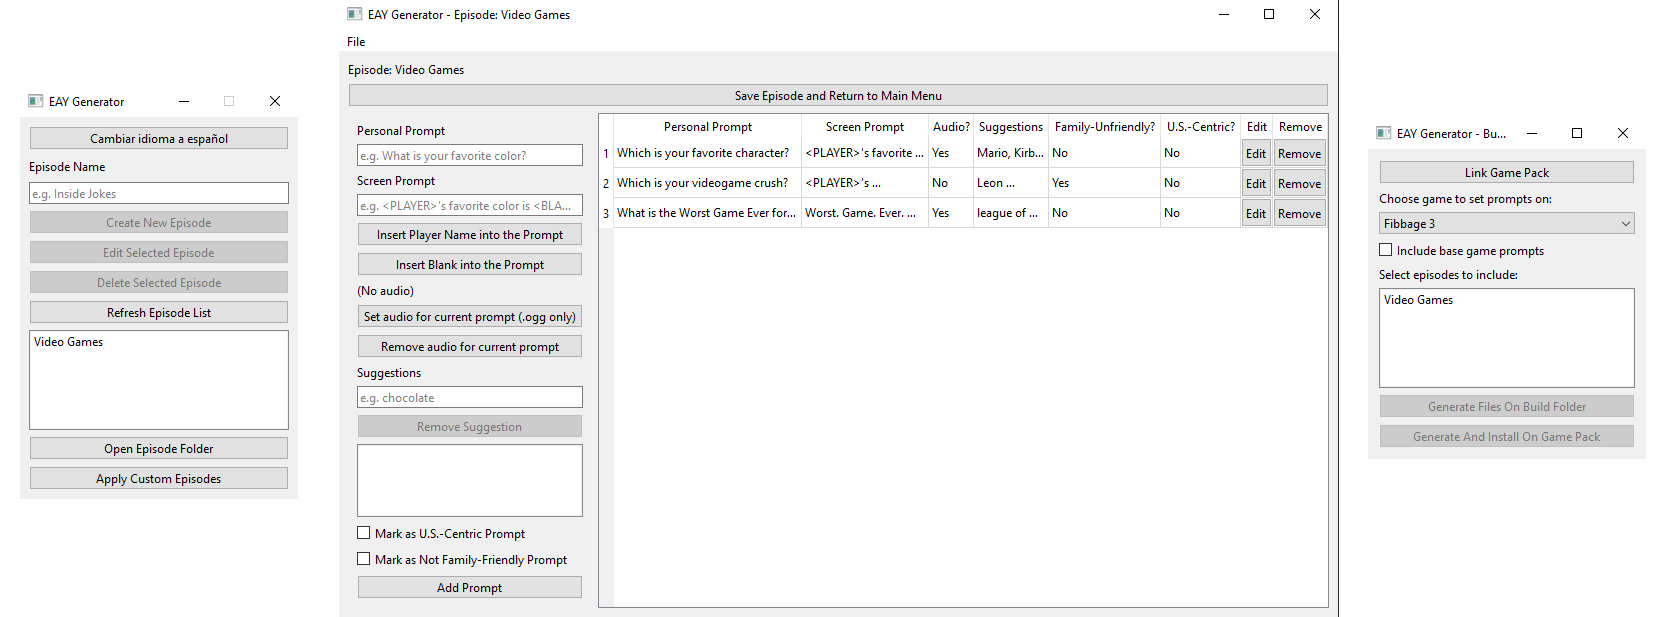
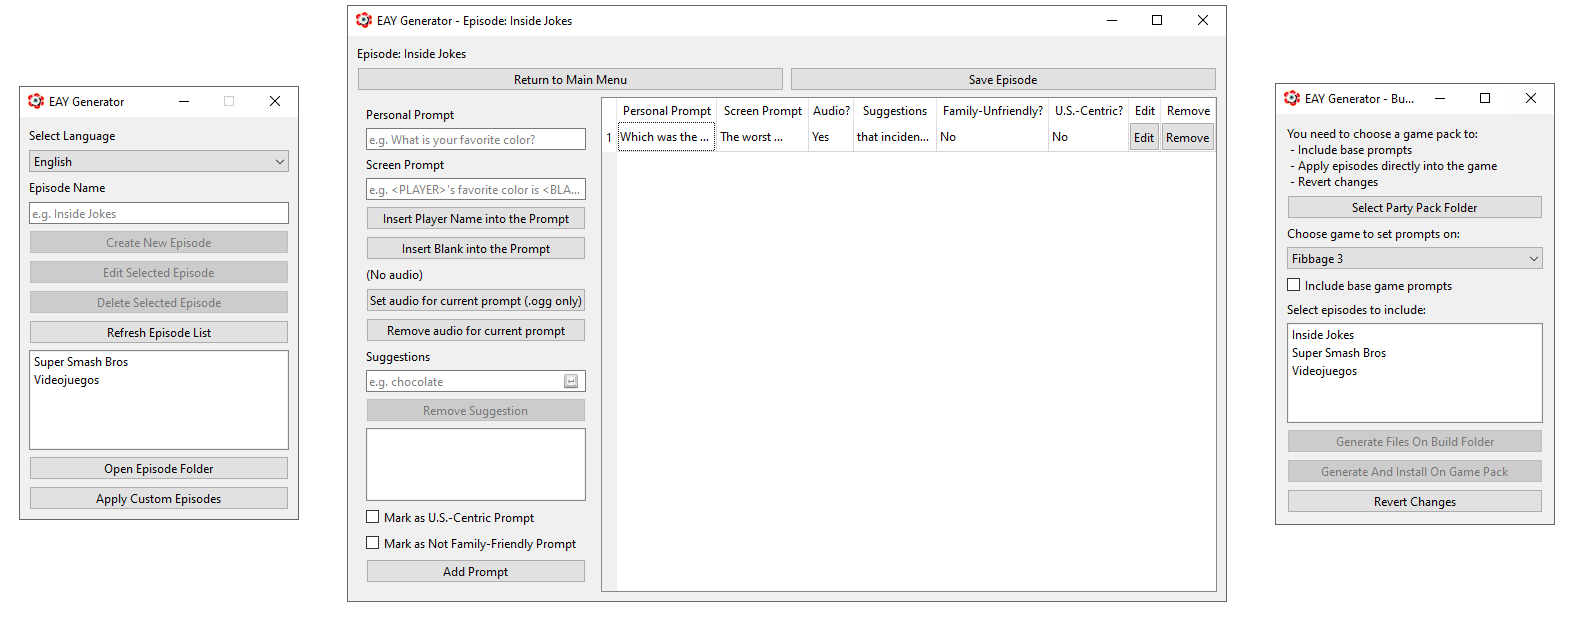
chore: Updated readme images

diff --git a/README.md b/README.md
@@ -1,5 +1,7 @@
-# EAY Generator
-<img src="https://raw.githubusercontent.com/feliarroyo/eay-generator/main/ReadmeElements/image.png">
+# ![EAY Generator](https://raw.githubusercontent.com/feliarroyo/eay-generator/main/ReadmeElements/logo.webp)
+
+![Image showing the different views of the EAY Generator application](https://raw.githubusercontent.com/feliarroyo/eay-generator/main/ReadmeElements/image.webp)
+
 Tool for creating custom prompt episodes for the Enough About You mode in Fibbage 3 and 4. Made using Python and PySide6.
 
 ## Features
